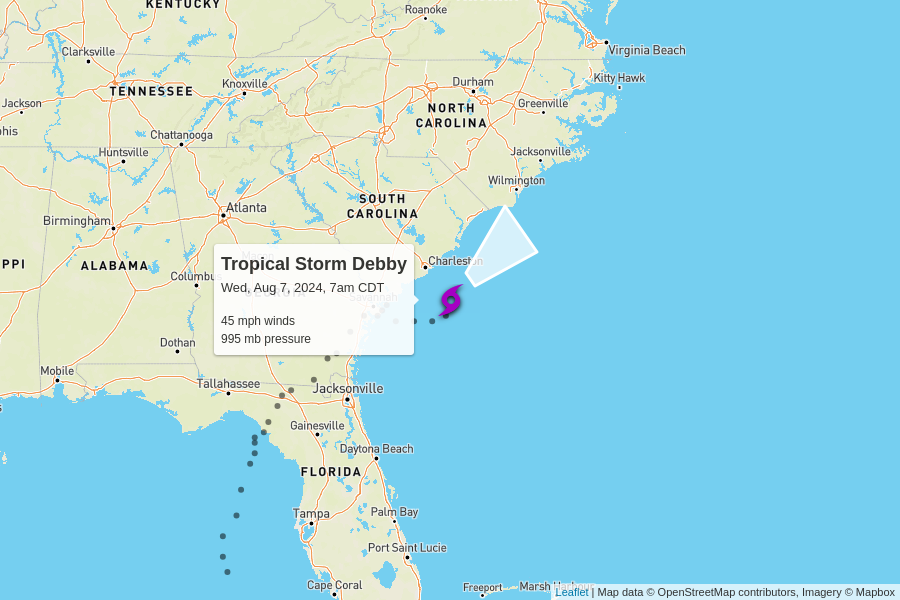
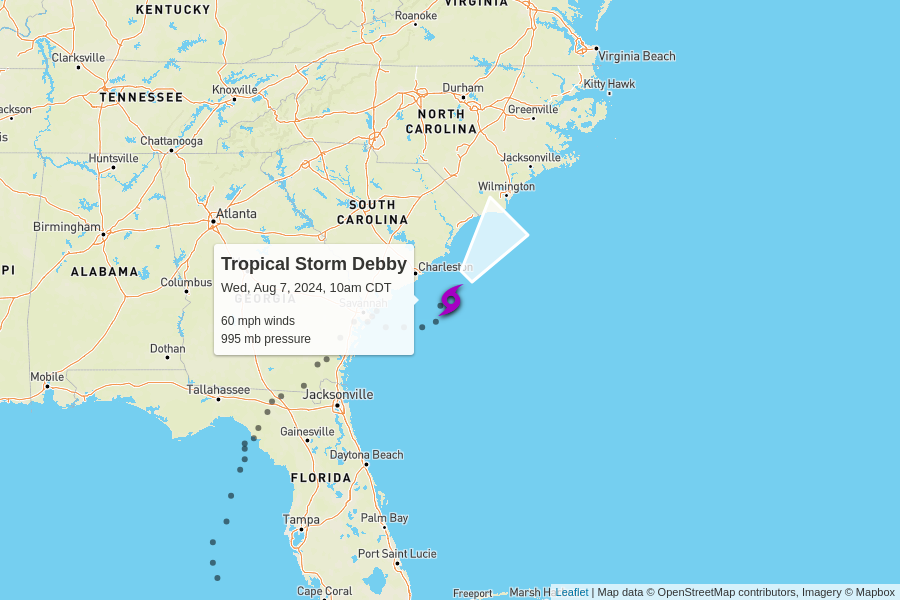
automatic update

diff --git a/docs/index.html b/docs/index.html
@@ -102,7 +102,7 @@
         <td colspan="6" class="storm category-0" >
           <h2>
             Tropical Storm Debby
-            <p class="updated">last updated <span data-time>2024-08-07T12:00:00.000Z</span></p>
+            <p class="updated">last updated <span data-time>2024-08-07T15:00:00.000Z</span></p>
           </h2>
         </td>
       </tr>
@@ -117,12 +117,12 @@
       </tr>
       <tr>
         <td class="spacer"></td>
-        <td>45 mph<br>0 mph since last update</td>
+        <td>60 mph<br>+15 mph since last update</td>
         <td>995 mb<br>0 mb since last update</td>
         <td>
-          4 mph to the northeast
+          5 mph to the northeast
           <br/>
-          <span style="display: inline-block; font-size: 1.5em; transform: rotate(50deg);">↑</span>
+          <span style="display: inline-block; font-size: 1.5em; transform: rotate(40deg);">↑</span>
         </td>
         <td><a href="https://raw.githubusercontent.com/mgwalker/atlantic-hurricanes/main/data/csv/AL042024.csv">AL042024.csv</a></td>
         <td><a href="https://www.nhc.noaa.gov/archive/2024/DEBBY.shtml?">NHC advisories</a></td>
